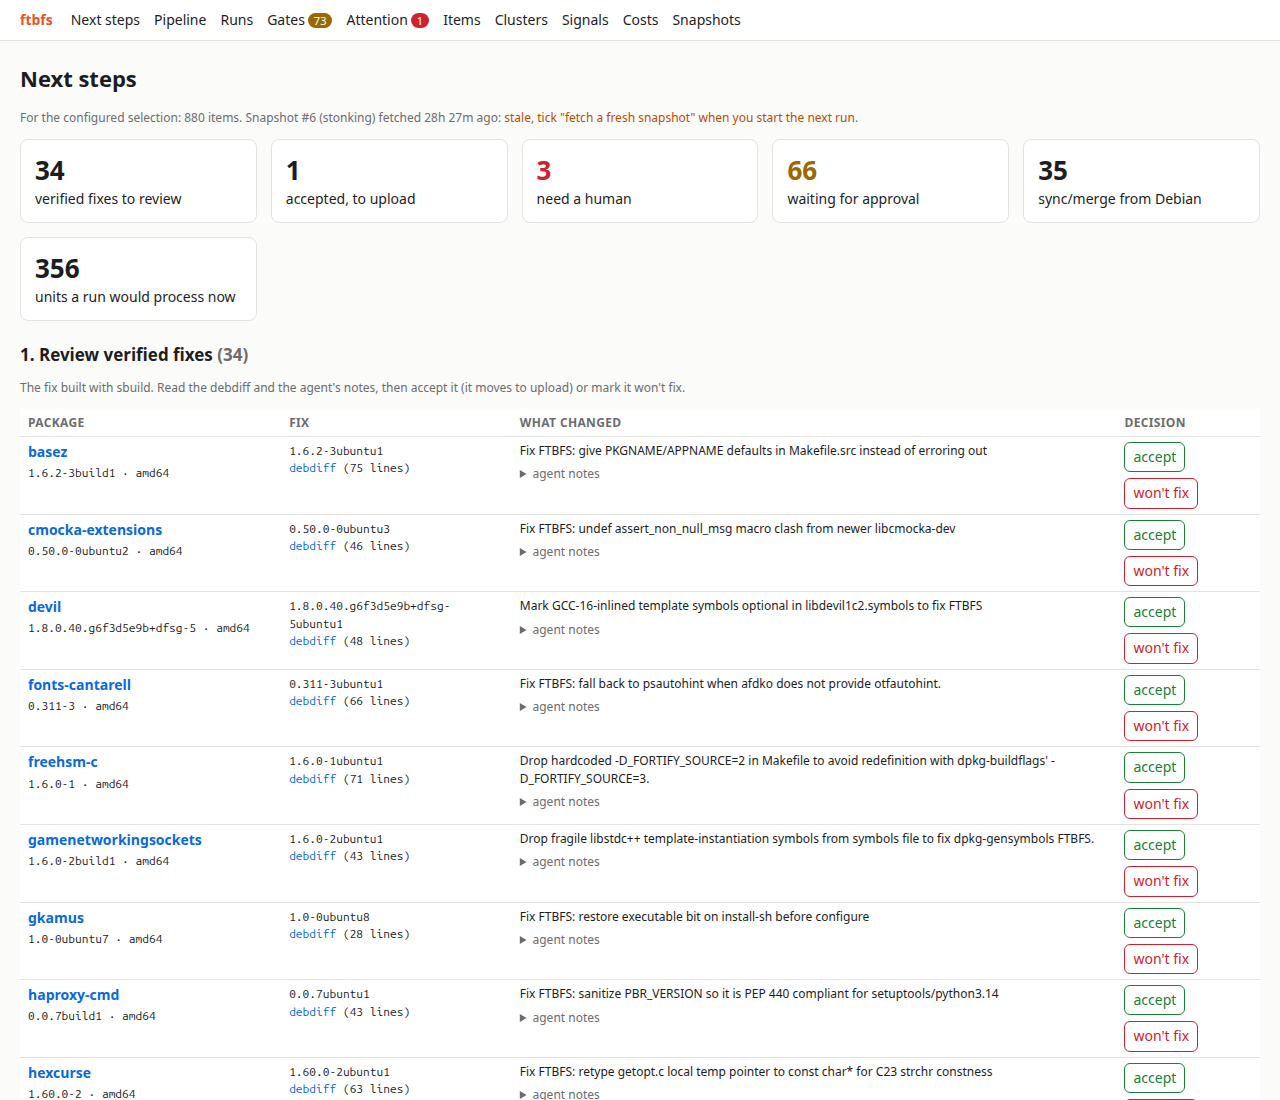
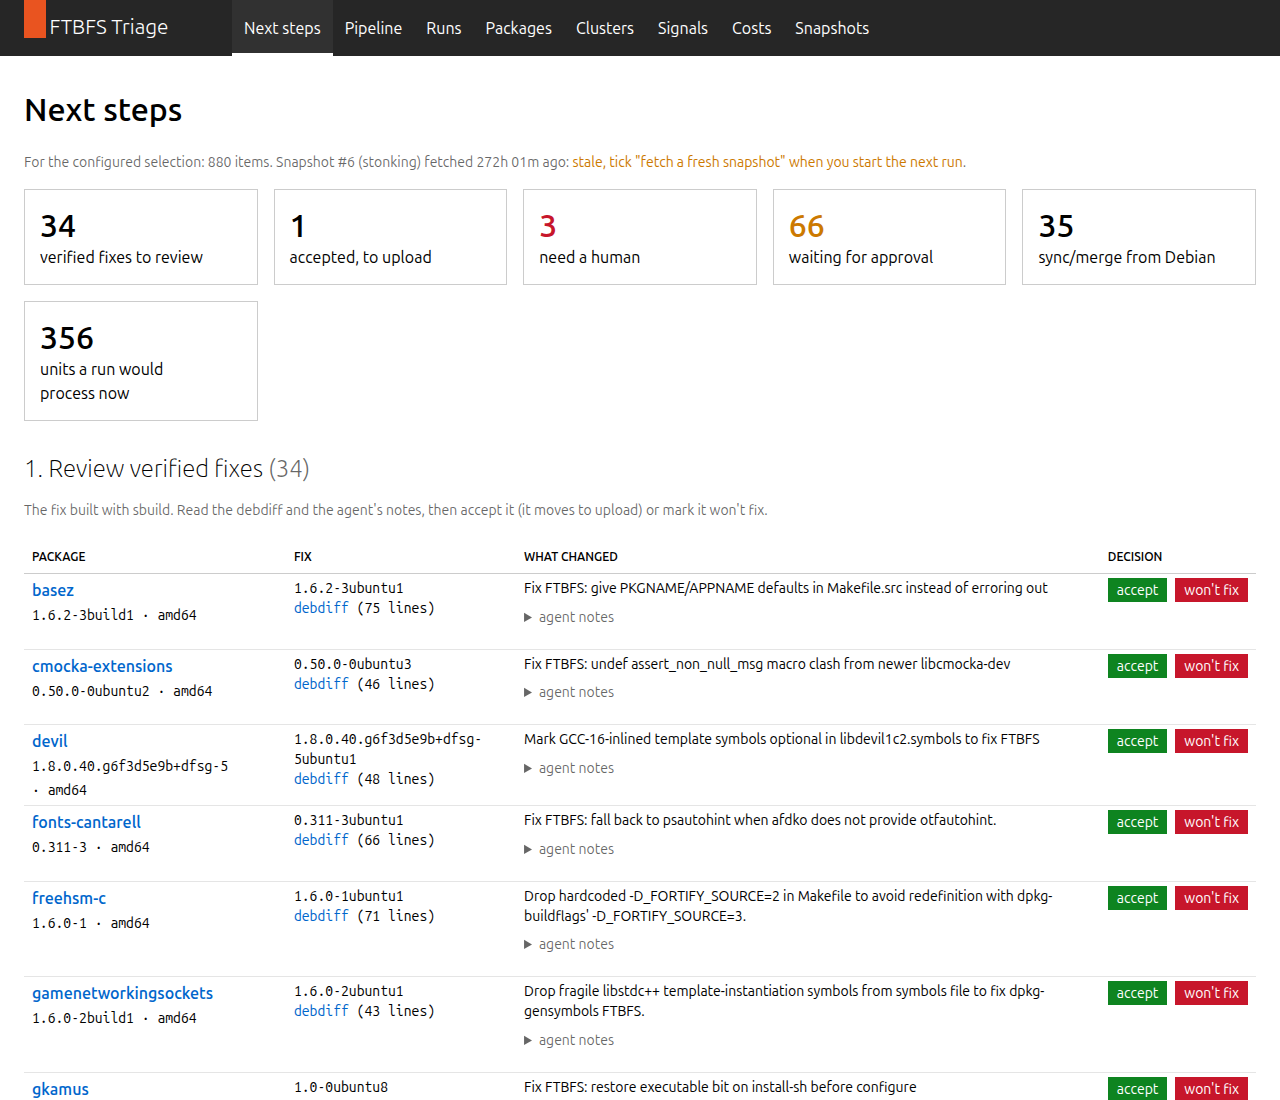
Web: FTBFS Triage title, Packages menu, optional Gates and Attention
The navigation bar now reads "FTBFS Triage" (also the end of every
page title) and the Items page is labelled Packages; its URL stays
/items so links keep working.

Gates and Attention leave the menu unless `[web] nav_gates_attention
= true`. Next steps already lists pending gates and units that need a
human, and both pages stay reachable by URL. When hidden, the two
queries behind their badge counts are skipped. A test covers both
settings; the gone-items test turns the menu on to check the badge.

OPERATIONS describes the option and the new label; the README
screenshot is retaken with the new menu (operator view, local data).

No stage version, inputs, prompt or rule change: no paid re-runs.

diff --git a/ftbfs/web/templates/base.html b/ftbfs/web/templates/base.html
@@ -5,7 +5,7 @@
 <head>
 <meta charset="utf-8">
 <meta name="viewport" content="width=device-width, initial-scale=1">
-<title>{% block title %}ftbfs{% endblock %} - ftbfs</title>
+<title>{% block title %}ftbfs{% endblock %} - FTBFS Triage</title>
 <link rel="stylesheet" href="/static/vanilla/vanilla.css">
 <link rel="stylesheet" href="/static/style.css">
 <script src="/static/htmx.min.js"></script>
@@ -21,7 +21,7 @@
       <div class="p-navigation__tagged-logo">
         <a class="p-navigation__link" href="/">
           <div class="p-navigation__logo-tag"></div>
-          <span class="p-navigation__logo-title">ftbfs</span>
+          <span class="p-navigation__logo-title">FTBFS Triage</span>
         </a>
       </div>
       <ul class="p-navigation__items">
@@ -35,9 +35,11 @@
         {{ nav('/overview', 'Pipeline') }}
         {% if running %}{{ nav('/runs/' ~ running.id, '&#9679; Run #'|safe ~ running.id, live=true) }}
         {% else %}{{ nav('/runs', 'Runs') }}{% endif %}
+        {% if nav_gates_attention %}
         {% call nav('/gates', 'Gates') %}{% if nav_gates %} <span class="p-badge">{{ nav_gates }}</span>{% endif %}{% endcall %}
         {% call nav('/attention', 'Attention') %}{% if nav_attention %} <span class="p-badge--negative">{{ nav_attention }}</span>{% endif %}{% endcall %}
-        {{ nav('/items', 'Items') }}
+        {% endif %}
+        {{ nav('/items', 'Packages') }}
         {{ nav('/clusters', 'Clusters') }}
         {{ nav('/signals', 'Signals') }}
         {% if user.costs %}{{ nav('/costs', 'Costs') }}{% endif %}

diff --git a/ftbfs/web/templates/items.html b/ftbfs/web/templates/items.html
@@ -2,9 +2,9 @@
 {#- SPDX-License-Identifier: GPL-3.0-or-later -#}
 {% extends "base.html" %}
 {% from "_macros.html" import dot, signal %}
-{% block title %}Items{% endblock %}
+{% block title %}Packages{% endblock %}
 {% block main %}
-<h1>Items</h1>
+<h1>Packages</h1>
 <form class="filters" method="get">
   <label>source (glob)<input type="text" name="source" value="{{ args.source }}" placeholder="python-*"></label>
   <label>arch<input type="text" name="arch" value="{{ args.arch }}" size="8"></label>

diff --git a/ftbfs/web/app.py b/ftbfs/web/app.py
@@ -185,6 +185,9 @@ def create_app(root: Path, launchpad: Launchpad | None = None) -> FastAPI:
                                   not isinstance(daily_cap, int | float)):
         raise ValueError("[web] daily_cost_cap must be a number (USD)")
     max_streams = int(web_cfg.get("max_streams", 64))
+    nav_gates_attention = web_cfg.get("nav_gates_attention", False)
+    if not isinstance(nav_gates_attention, bool):
+        raise ValueError("[web] nav_gates_attention must be true or false")
     streams = {"open": 0}
     allowed = {host_name(h) for h in core.config.allowed_hosts}
     work = core.config.work_dir.resolve()
@@ -241,10 +244,13 @@ def create_app(root: Path, launchpad: Launchpad | None = None) -> FastAPI:
         return response
 
     def page(request: Request, name: str, **ctx) -> HTMLResponse:
+        nav = {"nav_gates_attention": nav_gates_attention}
+        if nav_gates_attention:
+            nav["nav_gates"] = core.db.one(
+                f"SELECT COUNT(*) AS n FROM ({PENDING_GATES})")["n"]
+            nav["nav_attention"] = len(q.attention(core.db)["problems"])
         return tpl.TemplateResponse(request, name, {
-            "nav_gates": core.db.one("SELECT COUNT(*) AS n FROM"
-                                     f" ({PENDING_GATES})")["n"],
-            "nav_attention": len(q.attention(core.db)["problems"]),
+            **nav,
             "running": core.db.one("SELECT id FROM run WHERE"
                                    " status='running' ORDER BY id DESC"
                                    " LIMIT 1"),

diff --git a/tests/test_web.py b/tests/test_web.py
@@ -145,6 +145,26 @@ def test_pages_render(client, project):
     assert src in items
 
 
+def test_gates_attention_menu_is_optional(client, project):
+    def menu(body):
+        return body[body.index('aria-label="Main"'):body.index("</nav>")]
+
+    root = project["root"]
+    body = client.get("/").text
+    assert "FTBFS Triage" in body
+    plain = menu(body)
+    assert ">Packages<" in plain
+    assert 'href="/gates"' not in plain and 'href="/attention"' not in plain
+    local = root / "config.local.toml"
+    local.write_text("[web]\nnav_gates_attention = true\n")
+    try:
+        shown = menu(TestClient(create_app(root), base_url=BASE)
+                     .get("/").text)
+    finally:
+        local.unlink()
+    assert 'href="/gates"' in shown and 'href="/attention"' in shown
+
+
 def test_signals_visible(client, project):
     src = project["src"]
     page = client.get("/signals?signal=sync-candidate&everything=1").text
@@ -410,6 +430,8 @@ def test_gone_items_leave_gates_and_inbox(tmp_path, capsys):
     human = nextsteps.build(app, app.config.make_filter())["human"]
     assert {h["unit"] for h in human} == {kept["id"]}
 
+    (tmp_path / "config.local.toml").write_text(
+        "[web]\nnav_gates_attention = true\n")
     page = TestClient(create_app(tmp_path), base_url=BASE).get(
         "/gates").text
     assert kept["id"] in page and gone["id"] not in page

diff --git a/docs/OPERATIONS.md b/docs/OPERATIONS.md
@@ -115,8 +115,9 @@ through the same code as the CLI and are recorded as events. Pages:
 - **Package**: the investigation report, pipeline dots per arch, `why`
   per stage with approve and retry, every attempt's artifacts (prompt,
   transcript, debdiff, build log) and the timeline
-- **Gates** and **Attention** (errors, needs-human, exhausted loops)
-- **Items**, **Clusters**, **Signals**, **Costs** (by stage, model, run
+- **Gates** and **Attention** (errors, needs-human, exhausted loops),
+  in the menu only with `[web] nav_gates_attention = true`
+- **Packages** (`/items`), **Clusters**, **Signals**, **Costs** (by stage, model, run
   and package) and **Snapshots** (new, regressed, gone between any two)
 
 ### Web access
